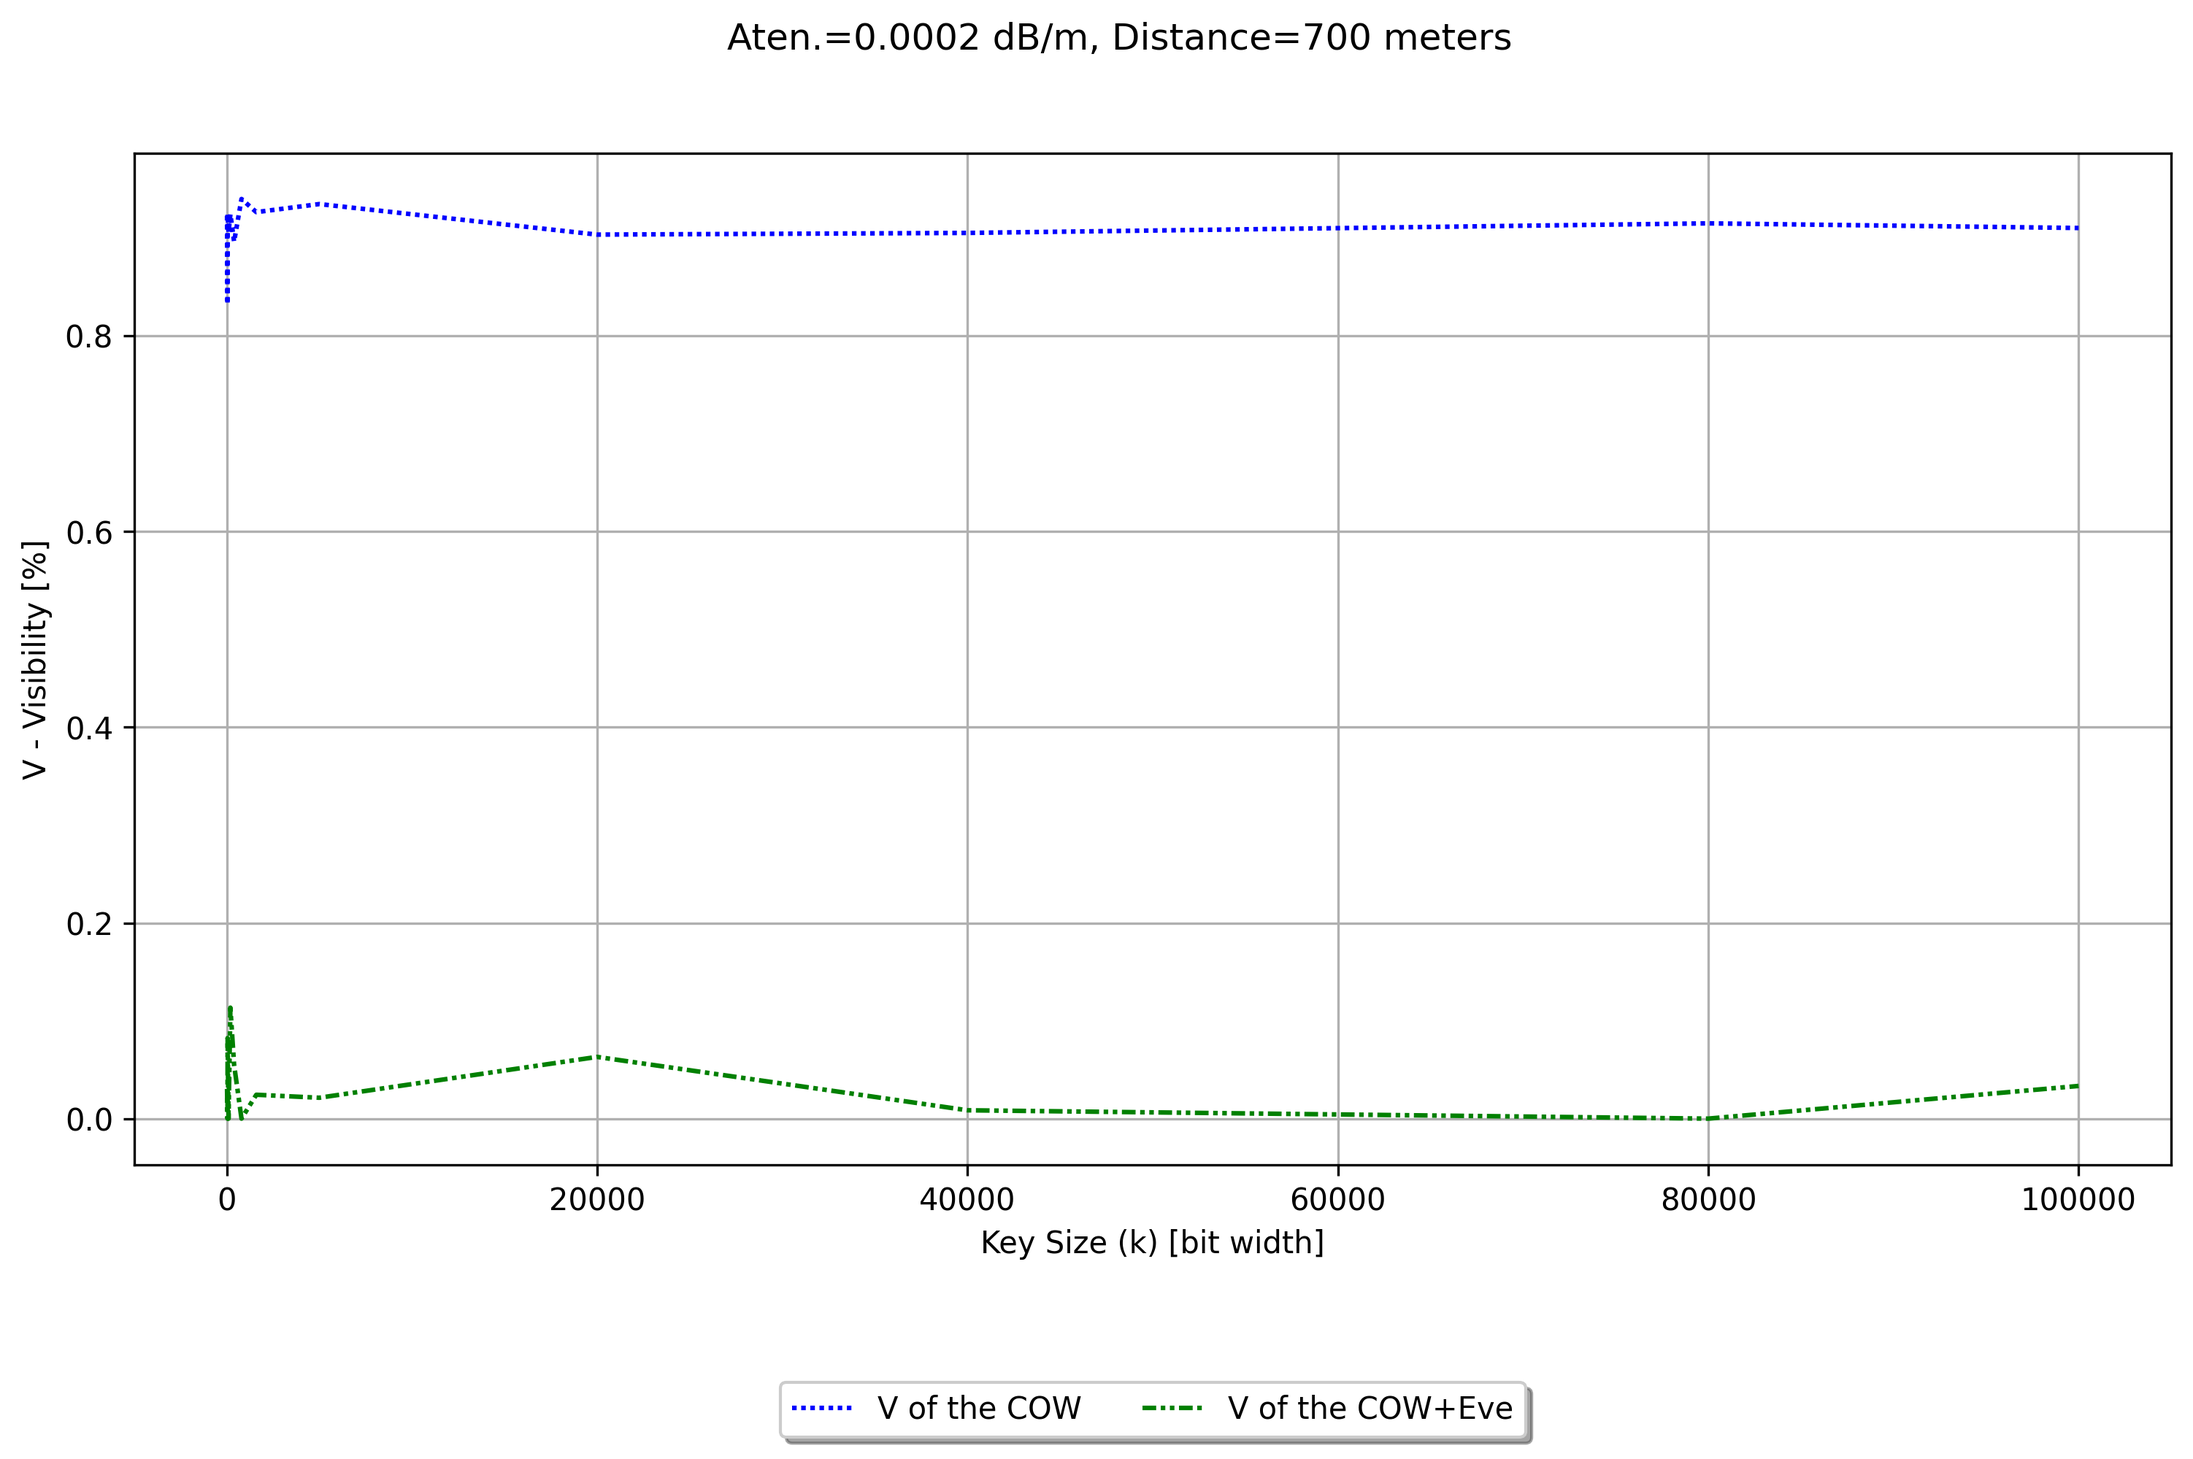
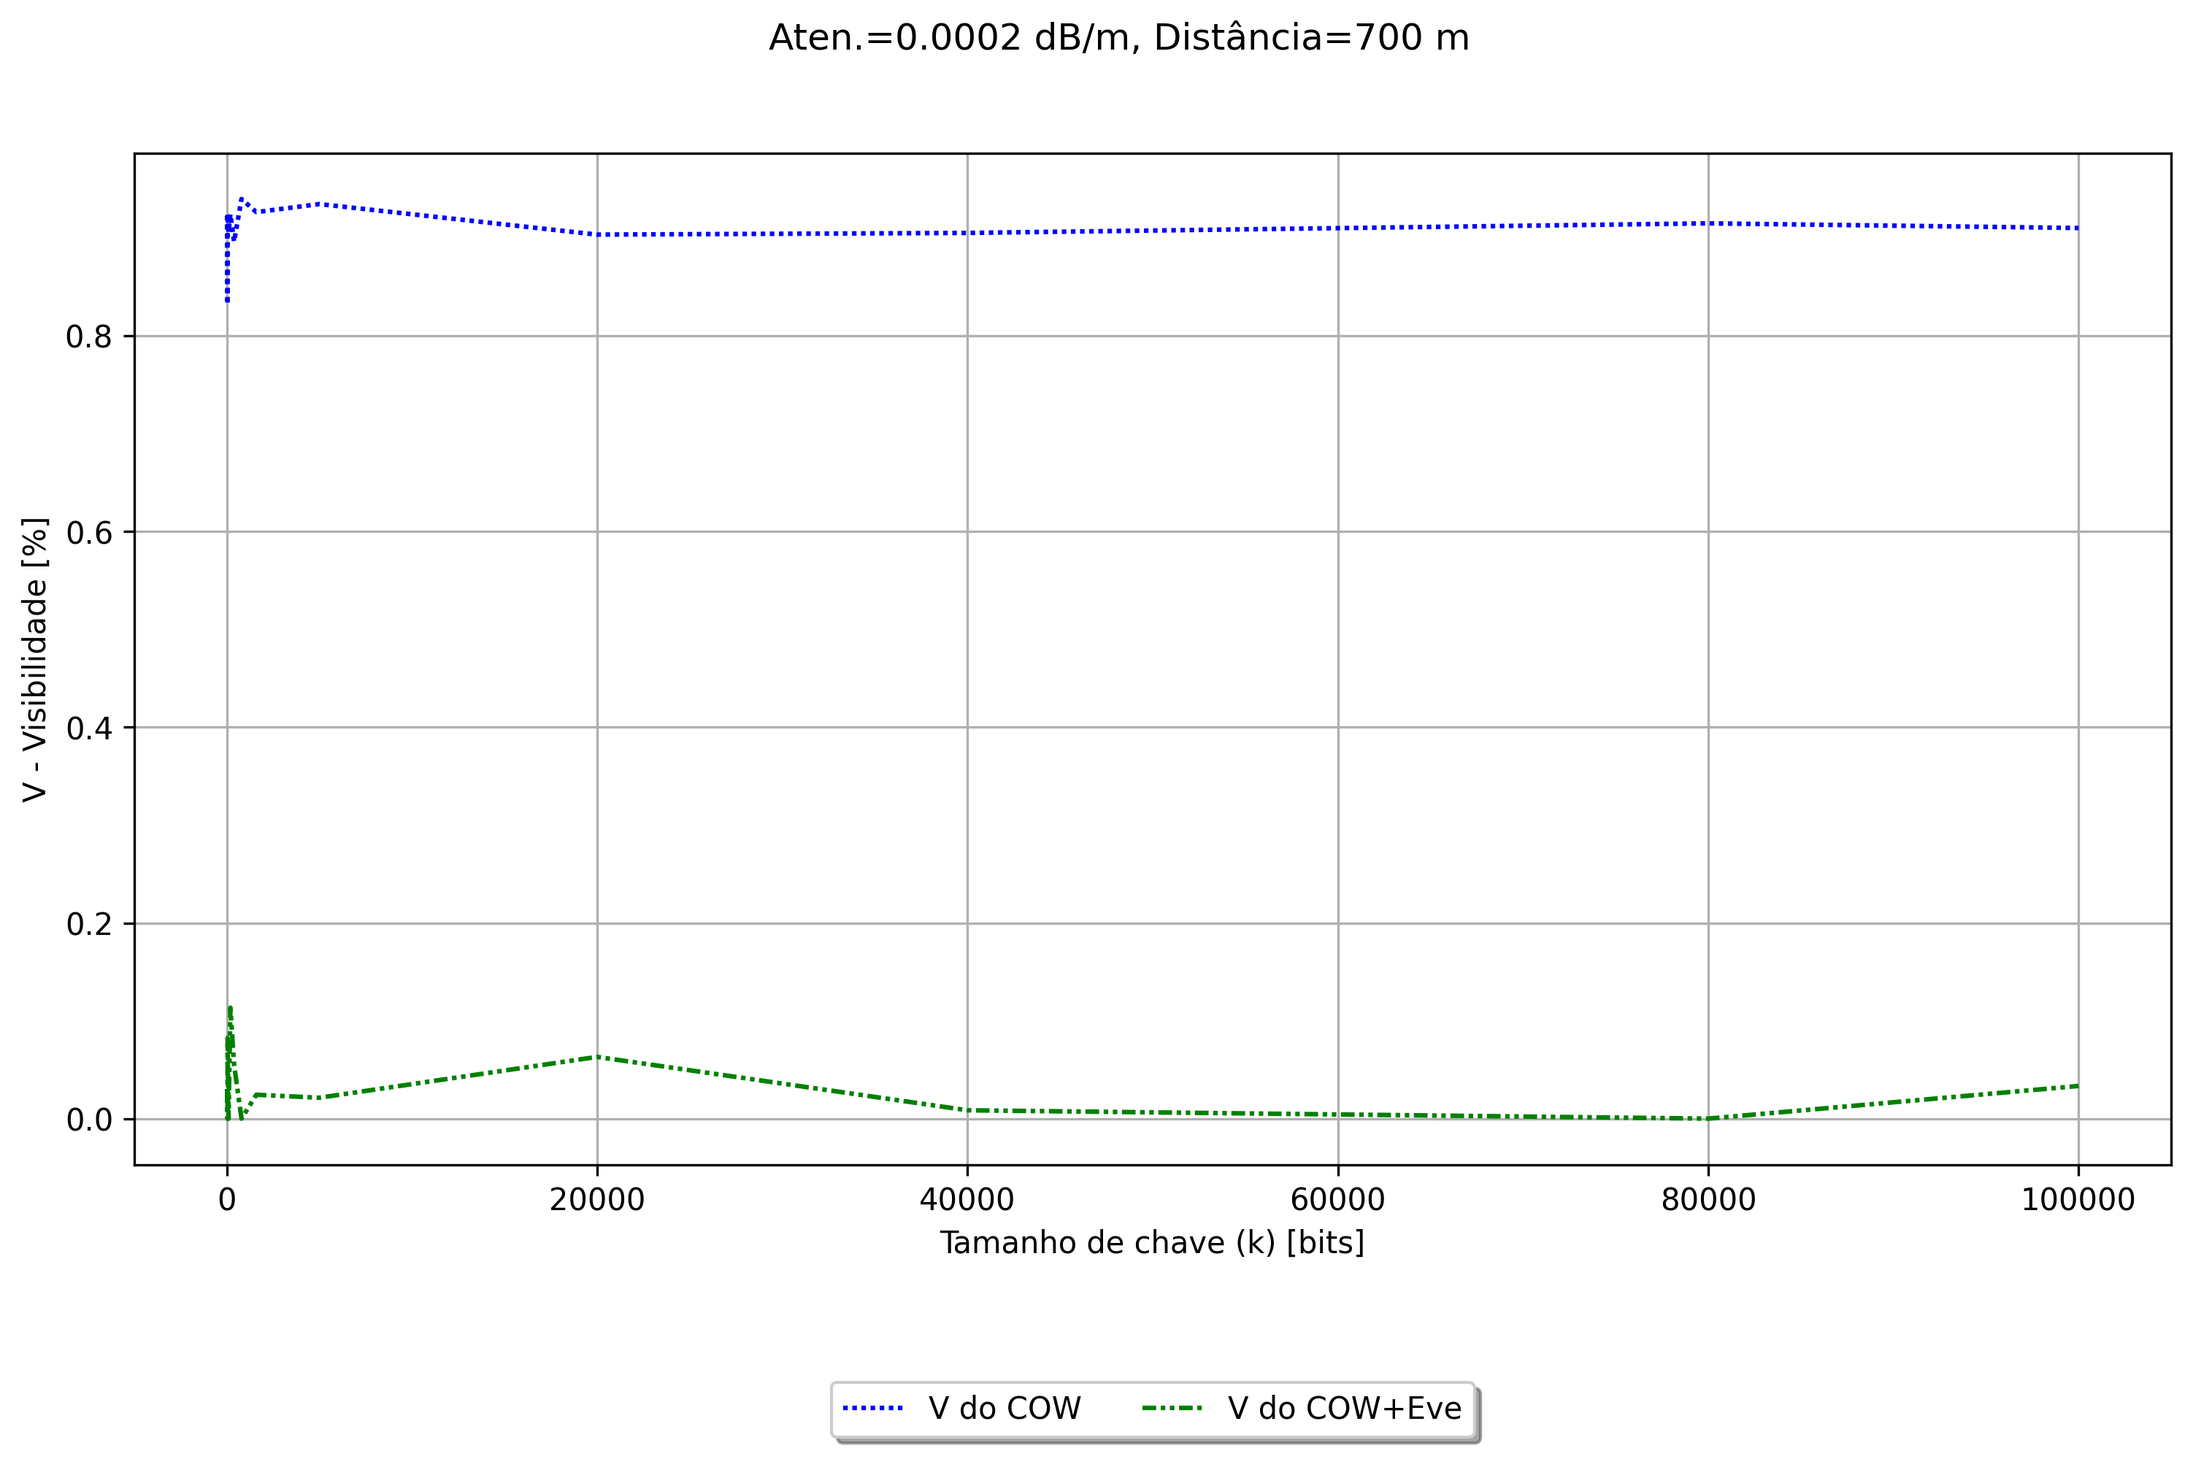
Bug fixes

diff --git a/plot.py b/plot.py
@@ -1,6 +1,7 @@
 import numpy as np
 from matplotlib import pyplot as plt
 import matplotlib as mpl
+import matplotlib.patches as mpatches
 import pandas as pd
 
 def safe_log10(lst: list) -> np.ndarray:
@@ -27,22 +28,23 @@ def plot_graph(skr, skr_Eve, qber, qber_Eve, rs, rs_Eve, x_list, x_label, title,
     # R_sk(x)
     fig, (ax1, ax3) = plt.subplots(2, figsize=(12, 6), sharex=True)
     fig.suptitle(title)
-    linha_y1, = ax1.plot(np.array(x_list), safe_log10(skr[0]), linestyle=(0, (1, 1)), color='blue', label="R_sk of the BB84")
-    linha_y2, = ax1.plot(np.array(x_list), safe_log10(skr[1]), linestyle=(0, (1, 5)), color='green', label="R_sk of the B92")
-    linha_y3, = ax1.plot(np.array(x_list), safe_log10(skr[2]), linestyle=(0, (1, 10)), color='red', label="R_sk of the COW")
-    ax1.set_ylabel("log₁₀ Secret Key Rate (R_sk)\n[bits per sent qubit]")
+    # Taxa X do BB84
+    linha_y1, = ax1.plot(np.array(x_list), safe_log10(skr[0]), linestyle=(0, (1, 1)), color='blue', label="R_sk do BB84")
+    linha_y2, = ax1.plot(np.array(x_list), safe_log10(skr[1]), linestyle=(0, (1, 5)), color='green', label="R_sk do B92")
+    linha_y3, = ax1.plot(np.array(x_list), safe_log10(skr[2]), linestyle=(0, (1, 10)), color='red', label="R_sk do COW")
+    ax1.set_ylabel("log₁₀ Taxa de chave secreta (R_sk)\n[bits por qubit enviado]")
     # QBER(x)
     ax2 = ax1.twinx()
-    linha_z1, = ax2.plot(np.array(x_list), np.array(qber[0])*100, linestyle=(0, (5, 1)), color='orange', label="QBER of the BB84")
-    linha_z2, = ax2.plot(np.array(x_list), np.array(qber[1])*100, linestyle=(0, (5, 5)), color='maroon', label="QBER of the B92")
-    linha_z3, = ax2.plot(np.array(x_list), np.array(qber[2])*100, linestyle=(0, (5, 10)), color='black', label="QBER of the COW")
+    linha_z1, = ax2.plot(np.array(x_list), np.array(qber[0])*100, linestyle=(0, (5, 1)), color='orange', label="QBER do BB84")
+    linha_z2, = ax2.plot(np.array(x_list), np.array(qber[1])*100, linestyle=(0, (5, 5)), color='maroon', label="QBER do B92")
+    linha_z3, = ax2.plot(np.array(x_list), np.array(qber[2])*100, linestyle=(0, (5, 10)), color='black', label="QBER do COW")
     ax2.set_ylabel("QBER [%]")
     # R_s(x)
     linha_w1, = ax3.plot(np.array(x_list), np.array(rs[0])*100, linestyle="solid", color='grey', label="BB84")
     linha_w2, = ax3.plot(np.array(x_list), np.array(rs[1])*100, linestyle=(0, (3, 1, 1, 1)), color='cyan', label="B92")
     linha_w3, = ax3.plot(np.array(x_list), np.array(rs[2])*100, linestyle=(0, (3, 1, 1, 1, 1, 1)), color='violet', label="COW")
     ax3.set_xlabel(x_label)
-    ax3.set_ylabel("R_s - Useful bit rate [%]")
+    ax3.set_ylabel("R_s - Taxa de bits úteis [%]")
 
     linhas = [linha_y1, linha_y2, linha_y3, linha_z1, linha_z2, linha_z3, linha_w1, linha_w2, linha_w3]
     labels = [l.get_label() for l in linhas]
@@ -57,22 +59,22 @@ def plot_graph(skr, skr_Eve, qber, qber_Eve, rs, rs_Eve, x_list, x_label, title,
     # R_sk(x)
     fig, (ax1, ax3) = plt.subplots(2, figsize=(12, 6), sharex=True)
     fig.suptitle(title)
-    linha_y1, = ax1.plot(np.array(x_list), safe_log10(skr_Eve[0]), linestyle=(0, (1, 1)), color='blue', label="R_sk of the BB84+Eve")
-    linha_y2, = ax1.plot(np.array(x_list), safe_log10(skr_Eve[1]), linestyle=(0, (1, 5)), color='green', label="R_sk of the B92+Eve")
-    linha_y3, = ax1.plot(np.array(x_list), safe_log10(skr_Eve[2]), linestyle=(0, (1, 10)), color='red', label="R_sk of the COW+Eve")
-    ax1.set_ylabel("log₁₀ Secret Key Rate (R_sk)\n[bits per sent qubit]")
+    linha_y1, = ax1.plot(np.array(x_list), safe_log10(skr_Eve[0]), linestyle=(0, (1, 1)), color='blue', label="R_sk do BB84+Eve")
+    linha_y2, = ax1.plot(np.array(x_list), safe_log10(skr_Eve[1]), linestyle=(0, (1, 5)), color='green', label="R_sk do B92+Eve")
+    linha_y3, = ax1.plot(np.array(x_list), safe_log10(skr_Eve[2]), linestyle=(0, (1, 10)), color='red', label="R_sk do COW+Eve")
+    ax1.set_ylabel("log₁₀ Taxa de chave secreta (R_sk)\n[bits por qubit enviado]")
     # QBER(x)
     ax2 = ax1.twinx()
-    linha_z1, = ax2.plot(np.array(x_list), np.array(qber_Eve[0])*100, linestyle=(0, (5, 1)), color='orange', label="QBER of the BB84+Eve")
-    linha_z2, = ax2.plot(np.array(x_list), np.array(qber_Eve[1])*100, linestyle=(0, (5, 5)), color='maroon', label="QBER of the B92+Eve")
-    linha_z3, = ax2.plot(np.array(x_list), np.array(qber_Eve[2])*100, linestyle=(0, (5, 10)), color='black', label="QBER of the COW+Eve")
+    linha_z1, = ax2.plot(np.array(x_list), np.array(qber_Eve[0])*100, linestyle=(0, (5, 1)), color='orange', label="QBER do BB84+Eve")
+    linha_z2, = ax2.plot(np.array(x_list), np.array(qber_Eve[1])*100, linestyle=(0, (5, 5)), color='maroon', label="QBER do B92+Eve")
+    linha_z3, = ax2.plot(np.array(x_list), np.array(qber_Eve[2])*100, linestyle=(0, (5, 10)), color='black', label="QBER do COW+Eve")
     ax2.set_ylabel("QBER [%]")
     # R_s(x)
     linha_w1, = ax3.plot(np.array(x_list), np.array(rs_Eve[0])*100, linestyle="solid", color='grey', label="BB84+Eve")
     linha_w2, = ax3.plot(np.array(x_list), np.array(rs_Eve[1])*100, linestyle=(0, (3, 1, 1, 1)), color='cyan', label="B92+Eve")
     linha_w3, = ax3.plot(np.array(x_list), np.array(rs_Eve[2])*100, linestyle=(0, (3, 1, 1, 1, 1, 1)), color='violet', label="COW+Eve")
     ax3.set_xlabel(x_label)
-    ax3.set_ylabel("R_s - Useful bit rate [%]")
+    ax3.set_ylabel("R_s - Taxa de bits úteis [%]")
 
     linhas = [linha_y1, linha_y2, linha_y3, linha_z1, linha_z2, linha_z3, linha_w1, linha_w2, linha_w3]
     labels = [l.get_label() for l in linhas]
@@ -96,10 +98,10 @@ def plot_v(visibility, visibility_Eve, x_list, x_label, title, filename):
     # R_sk(x)
     fig, ax1 = plt.subplots(figsize=(12, 6))
     fig.suptitle(title)
-    linha_y1, = ax1.plot(np.array(x_list), visibility, linestyle=(0, (1, 1)), color='blue', label="V of the COW")
-    linha_y2, = ax1.plot(np.array(x_list), visibility_Eve, linestyle=(0, (3, 1, 1, 1, 1, 1)), color='green', label="V of the COW+Eve")
+    linha_y1, = ax1.plot(np.array(x_list), visibility, linestyle=(0, (1, 1)), color='blue', label="V do COW")
+    linha_y2, = ax1.plot(np.array(x_list), visibility_Eve, linestyle=(0, (3, 1, 1, 1, 1, 1)), color='green', label="V do COW+Eve")
     ax1.set_xlabel(x_label)
-    ax1.set_ylabel("V - Visibility [%]")
+    ax1.set_ylabel("V - Visibilidade [%]")
 
     linhas = [linha_y1, linha_y2]
     labels = [l.get_label() for l in linhas]
@@ -153,21 +155,21 @@ def plot_dual_graph(
  
         # — Top subplot: R_sk (left axis) + QBER (right axis) —
         ax_top.plot(x, safe_log10(skr[0]), linewidth=2, linestyle=(0, (1, 1)),
-                    color='blue',  label="R_sk of the BB84")
+                    color='blue',  label="R_sk do BB84")
         ax_top.plot(x, safe_log10(skr[1]), linewidth=3, linestyle=(0, (1, 5)),
-                    color='green', label="R_sk of the B92")
+                    color='green', label="R_sk do B92")
         ax_top.plot(x, safe_log10(skr[2]), linewidth=5, linestyle=(0, (1, 10)),
-                    color='red',   label="R_sk of the COW")
-        ax_top.set_ylabel("log₁₀ Secret Key Rate (R_sk)\n[bits per sent qubit]" if show_left_ylabel else "", fontsize=fontsize)
+                    color='red',   label="R_sk do COW")
+        ax_top.set_ylabel("log₁₀ Taxa de chave secreta (R_sk)\n[bits por qubit enviado]" if show_left_ylabel else "", fontsize=fontsize)
         ax_top.grid(True)
  
         ax_qber = ax_top.twinx()
         ax_qber.plot(x, np.array(qber[0]) * 100, linewidth=3, linestyle=(0, (5, 1)),
-                     color='orange', label="QBER of the BB84")
+                     color='orange', label="QBER do BB84")
         ax_qber.plot(x, np.array(qber[1]) * 100, linewidth=3, linestyle="solid",
-                     color='maroon', label="QBER of the B92")
+                     color='maroon', label="QBER do B92")
         ax_qber.plot(x, np.array(qber[2]) * 100, linewidth=3, linestyle=(0, (5, 10)),
-                     color='violet',  label="QBER of the COW")
+                     color='violet',  label="QBER do COW")
         ax_qber.set_ylabel("QBER [%]" if show_right_ylabel else "", fontsize=fontsize)
  
         # — Bottom subplot: R_s —
@@ -180,7 +182,7 @@ def plot_dual_graph(
                           linestyle=(0, (3, 1, 1, 1, 1, 1)),
                           color='black', label="COW")
         ax_bot.set_xlabel(x_label, fontsize=fontsize)
-        ax_bot.set_ylabel("R_s - Useful bit rate [%]" if show_left_ylabel else "", fontsize=fontsize)
+        ax_bot.set_ylabel("R_s - Taxa de bits úteis [%]" if show_left_ylabel else "", fontsize=fontsize)
         ax_bot.grid(True)
  
         # Collect all line handles for the shared legend
@@ -213,6 +215,50 @@ def plot_dual_graph(
  
     plt.tight_layout(rect=[0, 0.08, 1, 0.96])
     #plt.tight_layout(rect=[0.04, 0.12, 0.96, 0.90])
+    ###########################################################################################
+    plt.subplots_adjust(wspace=0.55)   # <-- separação extra entre colunas
+
+    # ---- force the renderer to compute final axis positions ----
+    fig.canvas.draw()
+
+    # ---- draw thin bounding boxes + labels (a) and (b) ----
+    pad = 0.02   # padding em coordenadas de figura (0–1)
+
+    for col, label, label_ha in [(0, '(a)', 'left'), (1, '(b)', 'right')]:
+        pos_top = axes[0, col].get_position()
+        pos_bot = axes[1, col].get_position()
+
+        # Bounding box em coordenadas de figura
+        x0 = pos_top.x0 - pad
+        y0 = pos_bot.y0 - pad
+        width  = pos_top.x1 - pos_top.x0 + 2 * pad
+        height = pos_top.y1 - pos_bot.y0 + 2 * pad
+
+        rect = mpatches.FancyBboxPatch(
+            (x0, y0), width, height,
+            boxstyle="square,pad=0",
+            linewidth=0.8,
+            edgecolor='black',
+            facecolor='none',
+            transform=fig.transFigure,
+            clip_on=False,
+            zorder=10,
+        )
+        fig.add_artist(rect)
+
+        # Rótulo (a) no canto superior esquerdo / (b) no canto superior direito
+        label_x = x0 + 0.005 if label_ha == 'left' else x0 + width - 0.005
+        label_y = y0 + height - 0.005
+        fig.text(
+            label_x, label_y, label,
+            fontsize=fontsize,
+            fontweight='bold',
+            va='top',
+            ha=label_ha,
+            transform=fig.transFigure,
+            zorder=11,
+        )
+    ###########################################################################################
     plt.savefig(f"data/{filename}_graph-dual.png",
                 dpi=300, bbox_inches='tight')
     plt.close() 
@@ -231,7 +277,7 @@ def main():
            rs=[df_d["R_s-BB84"], df_d["R_s-B92"], df_d["R_s-COW"]], 
            rs_Eve=[df_d["R_s-BB84+Eve"], df_d["R_s-B92+Eve"], df_d["R_s-COW+Eve"]], 
            x_list=df_d["distance"], 
-           x_label="Distance (d) [m]", title=f"Aten.={channel_parameters[1]} dB/m, Keysize={keysize} bits", filename="distance")
+           x_label="Distância (d) [m]", title=f"Aten.={channel_parameters[1]} dB/m, Tamanho de chave={keysize} bits", filename="distance")
 
     plot_graph(skr=[df_k["R_sk-BB84"], df_k["R_sk-B92"], df_k["R_sk-COW"]], 
            skr_Eve=[df_k["R_sk-BB84+Eve"], df_k["R_sk-B92+Eve"], df_k["R_sk-COW+Eve"]], 
@@ -240,28 +286,28 @@ def main():
            rs=[df_k["R_s-BB84"], df_k["R_s-B92"], df_k["R_s-COW"]], 
            rs_Eve=[df_k["R_s-BB84+Eve"], df_k["R_s-B92+Eve"], df_k["R_s-COW+Eve"]], 
            x_list=df_k["keysize"], 
-           x_label="Key Size (k) [bit width]", title=f"Aten.={channel_parameters[1]} dB/m, Distance={channel_parameters[0]} meters", filename="keysize")
+           x_label="Tamanho de chave (k) [bits]", title=f"Aten.={channel_parameters[1]} dB/m, Distância={channel_parameters[0]} m", filename="keysize")
            
     plot_v(visibility=df_d["Visibility-COW"], 
            visibility_Eve=df_d["Visibility-COW+Eve"],
            x_list=df_d["distance"], 
-           x_label="Distance (d) [m]", title=f"Aten.={channel_parameters[1]} dB/m, Keysize={keysize} bits", filename="distance")
+           x_label="Distância (d) [m]", title=f"Aten.={channel_parameters[1]} dB/m, Tamanho de chave={keysize} bits", filename="distance")
     
     plot_v(visibility=df_k["Visibility-COW"], 
            visibility_Eve=df_k["Visibility-COW+Eve"],
            x_list=df_k["keysize"], 
-           x_label="Key Size (k) [bit width]", title=f"Aten.={channel_parameters[1]} dB/m, Distance={channel_parameters[0]} meters", filename="keysize")
+           x_label="Tamanho de chave (k) [bits]", title=f"Aten.={channel_parameters[1]} dB/m, Distância={channel_parameters[0]} m", filename="keysize")
 
     plot_dual_graph(
     skr_left=[df_d["R_sk-BB84"], df_d["R_sk-B92"], df_d["R_sk-COW"]],   
     qber_left=[df_d["QBER-BB84"], df_d["QBER-B92"], df_d["QBER-COW"]],   
     rs_left=[df_d["R_s-BB84"], df_d["R_s-B92"], df_d["R_s-COW"]],   
-    x_list_left=df_d["distance"],   x_label_left="Distance (d) [m]",   subtitle_left=f"Distance variation - Keysize={keysize} bits",
+    x_list_left=df_d["distance"],   x_label_left="Distância (d) [m]",   subtitle_left=f"Variação da distância - Tamanho da Chave={keysize} bits",
 
     skr_right=[df_k["R_sk-BB84"], df_k["R_sk-B92"], df_k["R_sk-COW"]],  
     qber_right=[df_k["QBER-BB84"], df_k["QBER-B92"], df_k["QBER-COW"]],  
     rs_right=[df_k["R_s-BB84"], df_k["R_s-B92"], df_k["R_s-COW"]],  
-    x_list_right=df_k["keysize"],   x_label_right="Key Size (k) [bit width]",  subtitle_right=f"Key size variation - Distance={channel_parameters[0]} meters",
+    x_list_right=df_k["keysize"],   x_label_right="Tamanho da chave (k) [bits]",  subtitle_right=f"Variação do tamanho da chave - Distância={channel_parameters[0]} m",
     title=f"Aten.={channel_parameters[1]} dB/m",
     filename="ideal_scenario"
     )
@@ -270,12 +316,12 @@ def main():
     skr_left=[df_d["R_sk-BB84+Eve"], df_d["R_sk-B92+Eve"], df_d["R_sk-COW+Eve"]],   
     qber_left=[df_d["QBER-BB84+Eve"], df_d["QBER-B92+Eve"], df_d["QBER-COW+Eve"]],   
     rs_left=[df_d["R_s-BB84+Eve"], df_d["R_s-B92+Eve"], df_d["R_s-COW+Eve"]],   
-    x_list_left=df_d["distance"],   x_label_left="Distance (d) [m]",   subtitle_left=f"Distance variation - Keysize={keysize} bits",
+    x_list_left=df_d["distance"],   x_label_left="Distância (d) [m]",   subtitle_left=f"Variação da distância - Tamanho da Chave={keysize} bits",
 
     skr_right=[df_k["R_sk-BB84+Eve"], df_k["R_sk-B92+Eve"], df_k["R_sk-COW+Eve"]],  
     qber_right=[df_k["QBER-BB84+Eve"], df_k["QBER-B92+Eve"], df_k["QBER-COW+Eve"]],  
     rs_right=[df_k["R_s-BB84+Eve"], df_k["R_s-B92+Eve"], df_k["R_s-COW+Eve"]],  
-    x_list_right=df_k["keysize"],   x_label_right="Key Size (k) [bit width]",  subtitle_right=f"Key size variation - Distance={channel_parameters[0]} meters",
+    x_list_right=df_k["keysize"],   x_label_right="Tamanho da chave (k) [bits]",  subtitle_right=f"Variação do tamanho da chave - Distância={channel_parameters[0]} m",
     title=f"Aten.={channel_parameters[1]} dB/m",
     filename="eve_scenario"
     )
